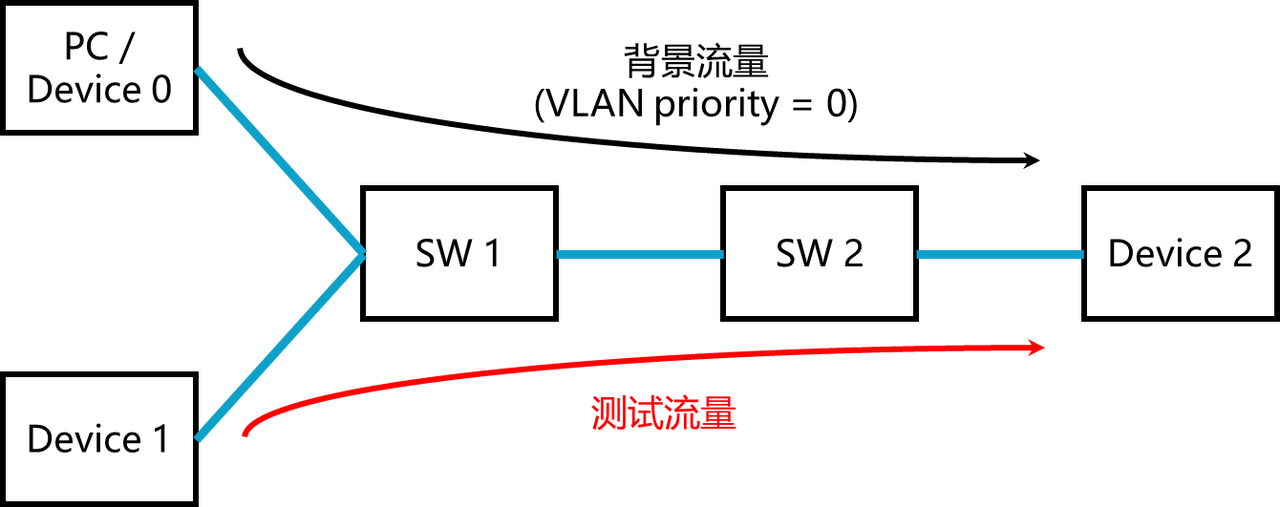
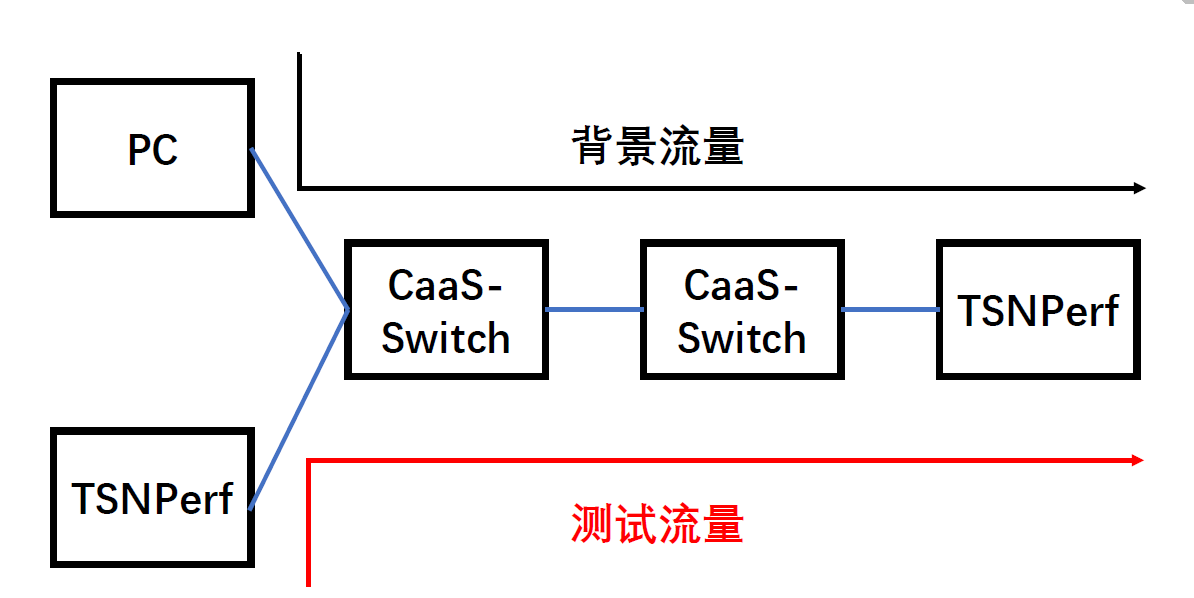
1.加入了设备准备、软件环境清单以及基础知识清单 2.完善案例Demo详细程度 3.提问、提贡献规范

Changed region(s): [[0.0, 0.0, 1.0, 1.0], [0.9916, 0.0, 1.0, 0.0296]]

diff --git a/README.md b/README.md
@@ -23,23 +23,25 @@
 
 4. [Features](#features)
 
-5. [Getting Started](#getting-started)
+5. [Read before start](#read-before-start)
 
-6. [System Design](#system-design)
+6. [Getting Started](#getting-started)
 
-7. [Demo APP Tutorial](#demo-app-tutorial)
+7. [System Design](#system-design)
 
-8. [License and Citation](#license-and-citation)
+8. [Demo APP Tutorial](#demo-app-tutorial)
 
-9. [TODO List](#todo-list)
+9. [License and Citation](#license-and-citation)
 
-10. [Contaction](#contaction)
+10. [TODO List](#todo-list)
+
+11. [Contributing](#Contributing)
 
 ## Introduction
 
 ZIGGO is a `flexible`, `standard-compliant`, and `control-function-virtualized` TSN switch platform ready for **industrial control**, **automotive electronics**, and other **time-sensitive applications**.
 
-This is the document for the ZIGGO TSNPerf. (We also offer [ZIGGO-Caas-Switch](https://github.com/Horacehxw/Ziggo-CaaS-Switch) that comply with the IEEE 802.1 TSN standard.) Our TSNPerf supports testing all standards-compliant switches.
+This is the document for the ZIGGO TSNPerf. (We also offer [ZIGGO-CaaS-Switch](https://github.com/Horacehxw/Ziggo-CaaS-Switch) that comply with the IEEE 802.1 TSN standard.) Our TSNPerf supports testing all standards-compliant switches.
 
 ## ZIGGO Open Platform
 
@@ -77,9 +79,17 @@ The left side of the picture is the ZYNQ development board we use, and the right
   * ZIGGO guarantee **Gigabit Throughput**.
   * ZIGGO provide gate accuracy applicable to **All Ethernet Frame Sizes**.
 
+## Read before start
+
+Getting started with ZIGGO-CaaS-Switch/ZIGGO-TSNPerf is a ==pretty hard== task. Users/developers need to have sufficient basic knowledge and be prepare to for a long periond of learning and debugging.
+
+Please refer to [basic_knowledge.md](docs/basic_knowledge.md) to check if you have ability to use ZIGGO competently. 
+
 ## Getting Started
 
-Please refer to [getting_started.md](docs/getting-started.md) for the build and run a single ZIGGO TSNPerf.
+Please refer to [required.md](docs/required.md)  to  get prepared.
+
+After that, please refer to [getting_started.md](docs/getting-started.md) for the build and run a single ZIGGO TSNPerf.
 
 ## System Design
 
@@ -139,6 +149,8 @@ Please consider citing our papers if the project helps your research with the fo
 
 > At present, we have only tested our own Ziggo switches and are testing other commercial switches (such as Huawei ,H3C and NXP). We expect to maintain a list of test results in the future.
 
-## Contaction
+## Contributing
 
-If any questions and suggenstations, please email to admin@sense-lab.org. Or you can also consider raising an issue on github.
+Please see the [guide](docs/contributing.md) for information on how to ask for help or contribute to the development of ZIGGO!
+
+> The development team will only answer questions on github issues and reject other forms of questions.

diff --git a/docs/contributing.md b/docs/contributing.md
@@ -1,0 +1,24 @@
+# Contributing to ZIGGO
+
+## Reporting a bug
+
+File bugs in the [Github Issue Tracker](https://github.com/Horacehxw/Ziggo-TSNPerf/issues). Please follow these guidelines:
+
+- Search existing issues first, make sure yours hasn't already been reported.
+- Consider enabling debug mode so that you can provide as much details as possible when reporting the issue.
+- Stay on topic, but describe the issue in detail so that others can **reproduce** it.
+- **Provide a screenshot** if possible. A screenshot showing the problem is often more useful than a paragraph describing it.
+
+> The development team will only answer questions on github issues and reject other forms of questions.
+
+## Contributing to ZIGGO's code
+
+If you want to start contributing to the project's code, please follow these guidelines before creating a pull request:
+
+- The top post of the pull request should contain a full, self-contained explanation of the feature: what it does, how it does it, with examples of usage and screenshots. Also explain why you want to add this - what problem does it solve. Do not simply add a text `Implement feature #4345` , because the information there will most likely be outdated or confusing (multiple discussions and opinions). The pull request needs to be self-contained.
+- Bug fixes are always welcome. 
+- A good way to easily start contributing is to pick and work on a good first issue. We try to make these issues as clear as possible and provide basic info on how the code should be changed, and if something is unclear feel free to ask for more information on the issue.
+- Before adding a new feature, ask about it in the [Github Issue Tracker](https://github.com/Horacehxw/Ziggo-TSNPerf/issues) , or check if existing discussions exist to make sure the new functionality is desired.
+- Pull requests that make many changes using an automated tool, like for spell fixing, styling, etc. will not be accepted.
+- Pull requests that address multiple issues will most likely stall and eventually be closed. This is because we might be fine with one of the changes but not with others and untangling that kind of pull request is too much hassle both for maintainers and the person who submitted it. So most of the time someone gives up and the PR gets closed. So please keep the pull request focused on one issue.
+- **Do not mark your reviewer's comments as "resolved"**. If you do that, the comments will be hidden and the reviewer will not know what are the pending issues in the pull request. Only the reviewer should resolve the comments.

diff --git a/docs/testbed.md b/docs/testbed.md
@@ -20,11 +20,18 @@
 
 ## TestBed简单介绍
 
-我们内部对自己研发的Switch进行了互联互通测试，采用的网络拓扑如下所示。
-（图中的SW代表ZIGGO交换机，Device0可以使用普通Linux PC，Device1代表ZIGGO TSNPerf）
+我们内部对自己研发的CaaS-Switch进行了互联互通测试，采用的网络拓扑如下所示。
 ![topo](../figs/topo.PNG)
 
-该拓扑由三个Device和两个Switch组成，Device 0负责发送背景流量，路径为黑色箭头；Device 1负责发送测试流量（关键流量），路径为红色箭头。
+该拓扑由2个TSNPerf、2个CaaS-Switch和1个PC组成，PC负责发送背景流量，路径为黑色箭头；左侧TSNPerf负责发送测试流量（关键流量），路径为红色箭头。
+
+所有测试项目的流程大致可以分为两个阶段：
+
+1. 时间同步：启动时间同步，保证TSNPerf、CaaS-Switch在一个时钟域下。
+
+   注：时间同步程序运行在TSNPerf、CaaS-Switch的系统中。
+
+2. 发送测试流量：根据schedule.json文件，TSNperf进行测试流量发送。
 
 ## 互联互通测试项目介绍
 
@@ -106,7 +113,7 @@ Switch、TSNPerf 的软硬件都使用主分支。
    Device每次发送4个数据包，每个Switch都预留了3个时隙，将以下两个配置文件下发即可：
    `base/d3s2-baseline-3t-config.json`，
    `base/d3s2-baseline-3t-schedule-base.json`
-4. ./batch.mjs launch
+4. ./batch.mjs launch （包括了时间同步和数据包发送）
 5. ./batch.mjs collect
 
 ### 门控能力

diff --git a/docs/required.md b/docs/required.md
@@ -1,0 +1,37 @@
+# 准备清单
+
+## 软件环境清单
+
+### Vivada 开发环境
+
+Vivado 是开发板的硬件开发程序。
+
+Vivado 软件的 Xilinx 官方下载地址： http://china.xilinx.com/support/download.html  
+
+本开发团队使用的是Vivado ***2020.1***版本，我们建议ZIGGO项目使用者也使用相同版本以免一些不必要的麻烦。
+
+具体的安装流程可以参照 [ZYNQ应用教程](https://cloud.tsinghua.edu.cn/f/f9f1a4f92a344e8e9c2c/) **第三章Vivado开发环境** 进行安装。
+
+### MobaXterm
+
+MobaXterm是串口连接工具，我们在[hardware_build.md](./hardware_build.md)中“Launch the Board and log in”这一章节进行了使用介绍。
+
+MobaXterm的官方下载地址：[MobaXterm Xserver with SSH, telnet, RDP, VNC and X11 - Download (mobatek.net)](https://mobaxterm.mobatek.net/download.html)
+
+## 硬件准备清单
+
+### Alinx7021开发板
+
+<img src="../figs/Alinx7021.png" alt="Alinx7021" style="zoom:50%;" />
+
+### SD启动卡
+
+SD启动卡中存储着操作系统，建议容量 $\geq$ 32G。
+
+### 必要的线材
+
+包括网线、数据线等。
+
+### 普通交换机
+
+如果使用的开发板数量较多，可以考虑将所有开发板连接到普通交换机再通过普通交换机连接至PC（通过网线）进行管理和使用。

diff --git a/docs/basic_knowledge.md b/docs/basic_knowledge.md
@@ -1,0 +1,24 @@
+# 基础知识列表
+
+我们再次重申，使用或者开发ZIGGO-CaaS-Switch或者ZIGGO-TSNPerf是有较高门槛的，您必须掌握一定的软硬件知识。如果您之间没有任何的硬件开发经验，您可能需要慎重考虑自己是否适合这个项目，因为学习这些知识是非常花时间的。
+
+学习使用ZIGGO项目比学习FPGA、MCU、ARM等传统开发工具要求更高，想如臂指使一般地使用ZIGGO设备也不是一蹴而就的事情。
+
+如果您希望使用ZIGGO项目，您至少应该有以下知识：
+
+## 硬件知识
+
+* 计算机组成原理
+* C语言
+* 数字电路基础
+* Verilog、VHDL语言
+* 良好的英语阅读基础
+
+## 软件知识
+
+* 计算机组成原理
+* 计算机网络
+* 计算机操作系统
+* C、C++语言
+* tcl脚本
+* 良好的英语阅读基础
